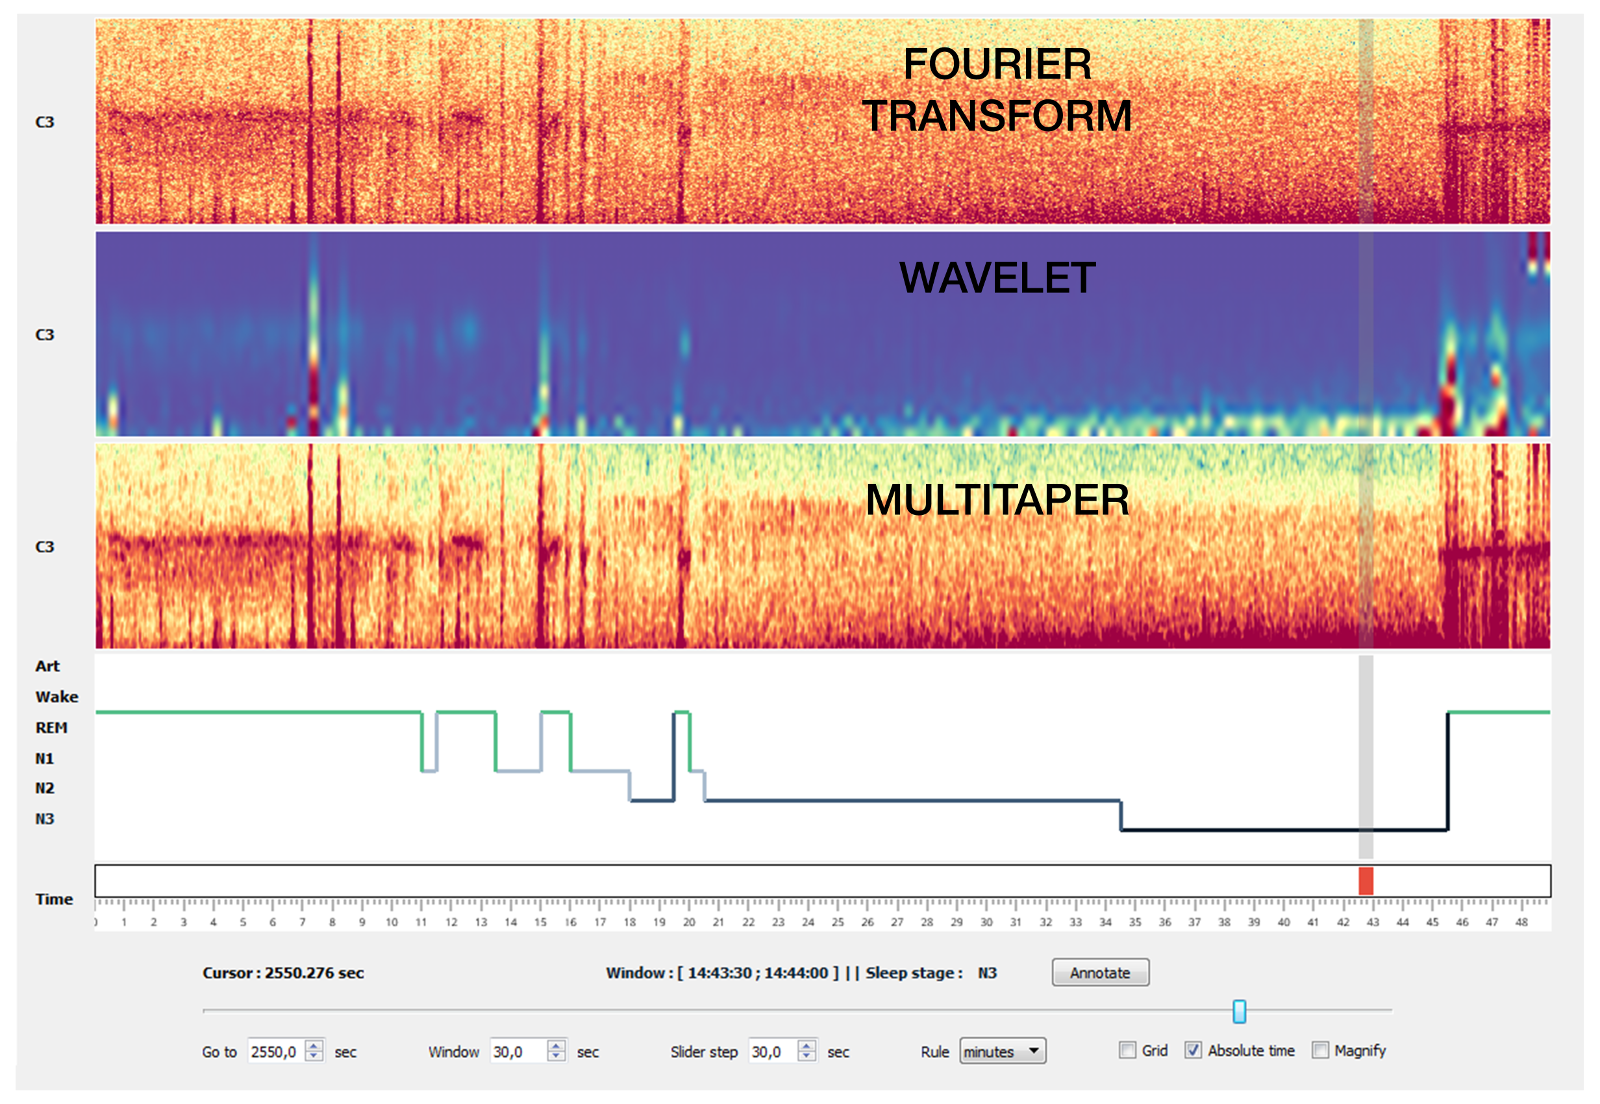
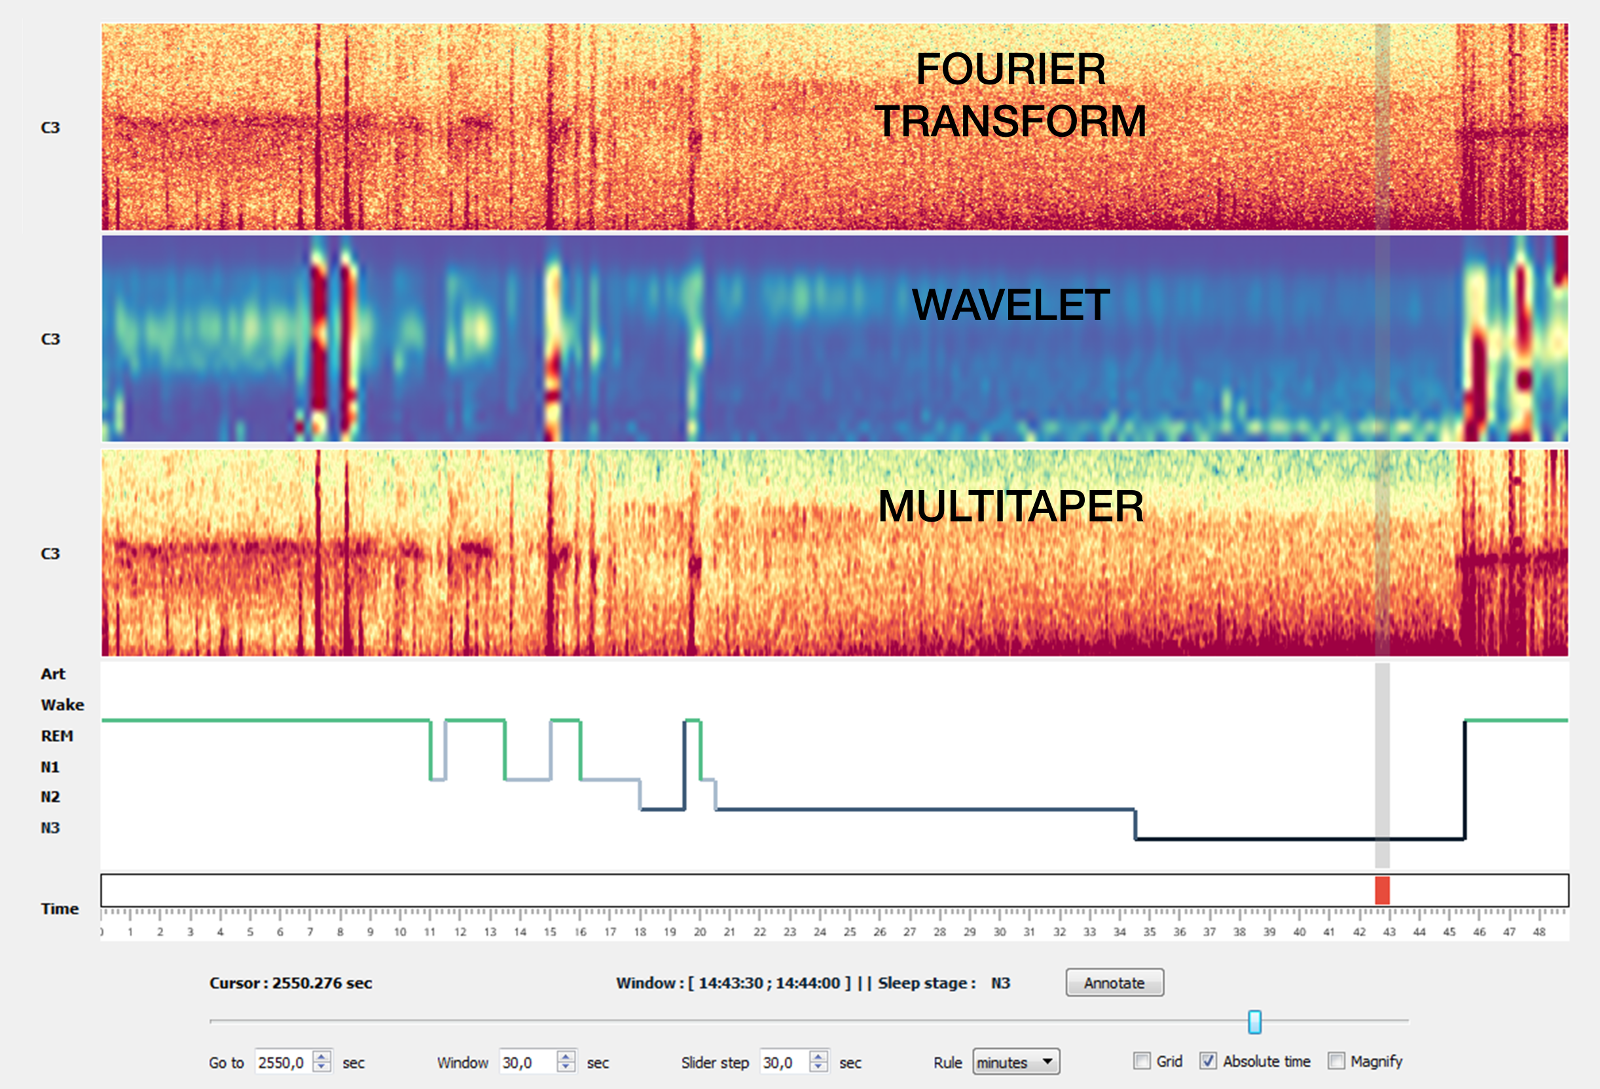
new spectro_methods figure + updated save/load config

diff --git a/visbrain/sleep/interface/ui_elements/ui_menu.py b/visbrain/sleep/interface/ui_elements/ui_menu.py
@@ -221,13 +221,16 @@ class UiMenu(HelpMenu):
                 config['AutoAmp'] = self._PanAmpAuto.isChecked()
                 # Spectrogram :
                 config['Spec_Visible'] = self.menuDispSpec.isChecked()
+                config['Spec_Method'] = self._PanSpecMethod.currentIndex()
                 config['Spec_Length'] = self._PanSpecNfft.value()
                 config['Spec_Overlap'] = self._PanSpecStep.value()
                 config['Spec_Cmap'] = self._PanSpecCmap.currentIndex()
+                config['Spec_CmapInv'] = self._PanSpecCmapInv.isChecked()
                 config['Spec_Chan'] = self._PanSpecChan.currentIndex()
                 config['Spec_Fstart'] = self._PanSpecFstart.value()
                 config['Spec_Fend'] = self._PanSpecFend.value()
                 config['Spec_Con'] = self._PanSpecCon.value()
+                config['Spec_Interp'] = self._PanSpecInterp.currentIndex()
                 # Hypnogram/time axis/navigation/topo/indic/zoom :
                 config['Hyp_Visible'] = self.menuDispHypno.isChecked()
                 config['Time_Visible'] = self.menuDispTimeax.isChecked()
@@ -235,6 +238,8 @@ class UiMenu(HelpMenu):
                 config['Nav_Visible'] = self.menuDispNavbar.isChecked()
                 config['Indic_Visible'] = self.menuDispIndic.isChecked()
                 config['Zoom_Visible'] = self.menuDispZoom.isChecked()
+                config['Hyp_Lw'] = self._PanHypnoLw.value()
+                config['Hyp_Color'] = self._PanHypnoColor.isChecked()
                 # Navigation bar properties :
                 config['Slider'] = self._SlVal.value()
                 config['Step'] = self._SigSlStep.value()
@@ -331,19 +336,26 @@ class UiMenu(HelpMenu):
                 _try("self._PanAmpAuto.setChecked(config['AutoAmp'])")
                 # Spectrogram
                 _try("self.menuDispSpec.setChecked(config['Spec_Visible'])")
+                _try("self._PanSpecMethod.setCurrentIndex("
+                                                    "config['Spec_Method'])")
                 _try("self._PanSpecNfft.setValue(config['Spec_Length'])")
                 _try("self._PanSpecStep.setValue(config['Spec_Overlap'])")
                 _try("self._PanSpecCmap.setCurrentIndex(config['Spec_Cmap'])")
+                _try("self._PanSpecCmapInv.setChecked(config['Spec_CmapInv'])")
                 _try("self._PanSpecChan.setCurrentIndex(config['Spec_Chan'])")
                 _try("self._PanSpecFstart.setValue(config['Spec_Fstart'])")
                 _try("self._PanSpecFend.setValue(config['Spec_Fend'])")
                 _try("self._PanSpecCon.setValue(config['Spec_Con'])")
+                _try("self._PanSpecInterp.setCurrentIndex("
+                                                    "config['Spec_Interp'])")
                 # Hypnogram/time axis/navigation/topo/indic/zoom :
                 _try("self.menuDispHypno.setChecked(config['Hyp_Visible'])")
                 _try("self.menuDispTimeax.setChecked(config['Time_Visible'])")
                 _try("self.menuDispTopo.setChecked(config['Topo_Visible'])")
                 _try("self.menuDispNavbar.setChecked(config['Nav_Visible'])")
                 _try("self.menuDispIndic.setChecked(config['Indic_Visible'])")
+                _try("self._PanHypnoLw.setValue(config['Hyp_Lw'])")
+                _try("self._PanHypnoColor.setChecked(config['Hyp_Color'])")
                 # Navigation bar properties :
                 _try("self._SlVal.setValue(config['Slider'])")
                 _try("self._SigSlStep.setValue(config['Step'])")
@@ -367,6 +379,8 @@ class UiMenu(HelpMenu):
                 self._fcn_update_amp_info()
                 self._fcn_chan_auto_amp()
                 self._fcn_chan_sym_amp()
+                self._fcn_set_hypno_lw()
+                self._fcn_set_hypno_color()
 
     def _load_detect_all(self, *args, filename=None):
         """Load all detections."""

diff --git a/visbrain/sleep/visuals/visuals.py b/visbrain/sleep/visuals/visuals.py
@@ -428,12 +428,12 @@ class Spectrogram(PrepareData):
         self.tf = TFmapsMesh(parent=parent)
         # Spectrogram
         self.mesh = scene.visuals.Image(np.zeros((2, 2)),
-                                        name='Fourier transform', parent=parent)
+                                    name='Fourier transform', parent=parent)
         self.mesh.transform = vist.STTransform()
 
-    def set_data(self, sf, data, time, method='Fourier transform', cmap='rainbow',
-                 nfft=30., overlap=0., fstart=.5, fend=20., contrast=.5,
-                 interp='nearest', norm=0):
+    def set_data(self, sf, data, time, method='Fourier transform',
+                 cmap='rainbow', nfft=30., overlap=0., fstart=.5, fend=20.,
+                 contrast=.5, interp='nearest', norm=0):
         """Set data to the spectrogram.
 
         Use this method to change data, colormap, spectrogram settings, the
